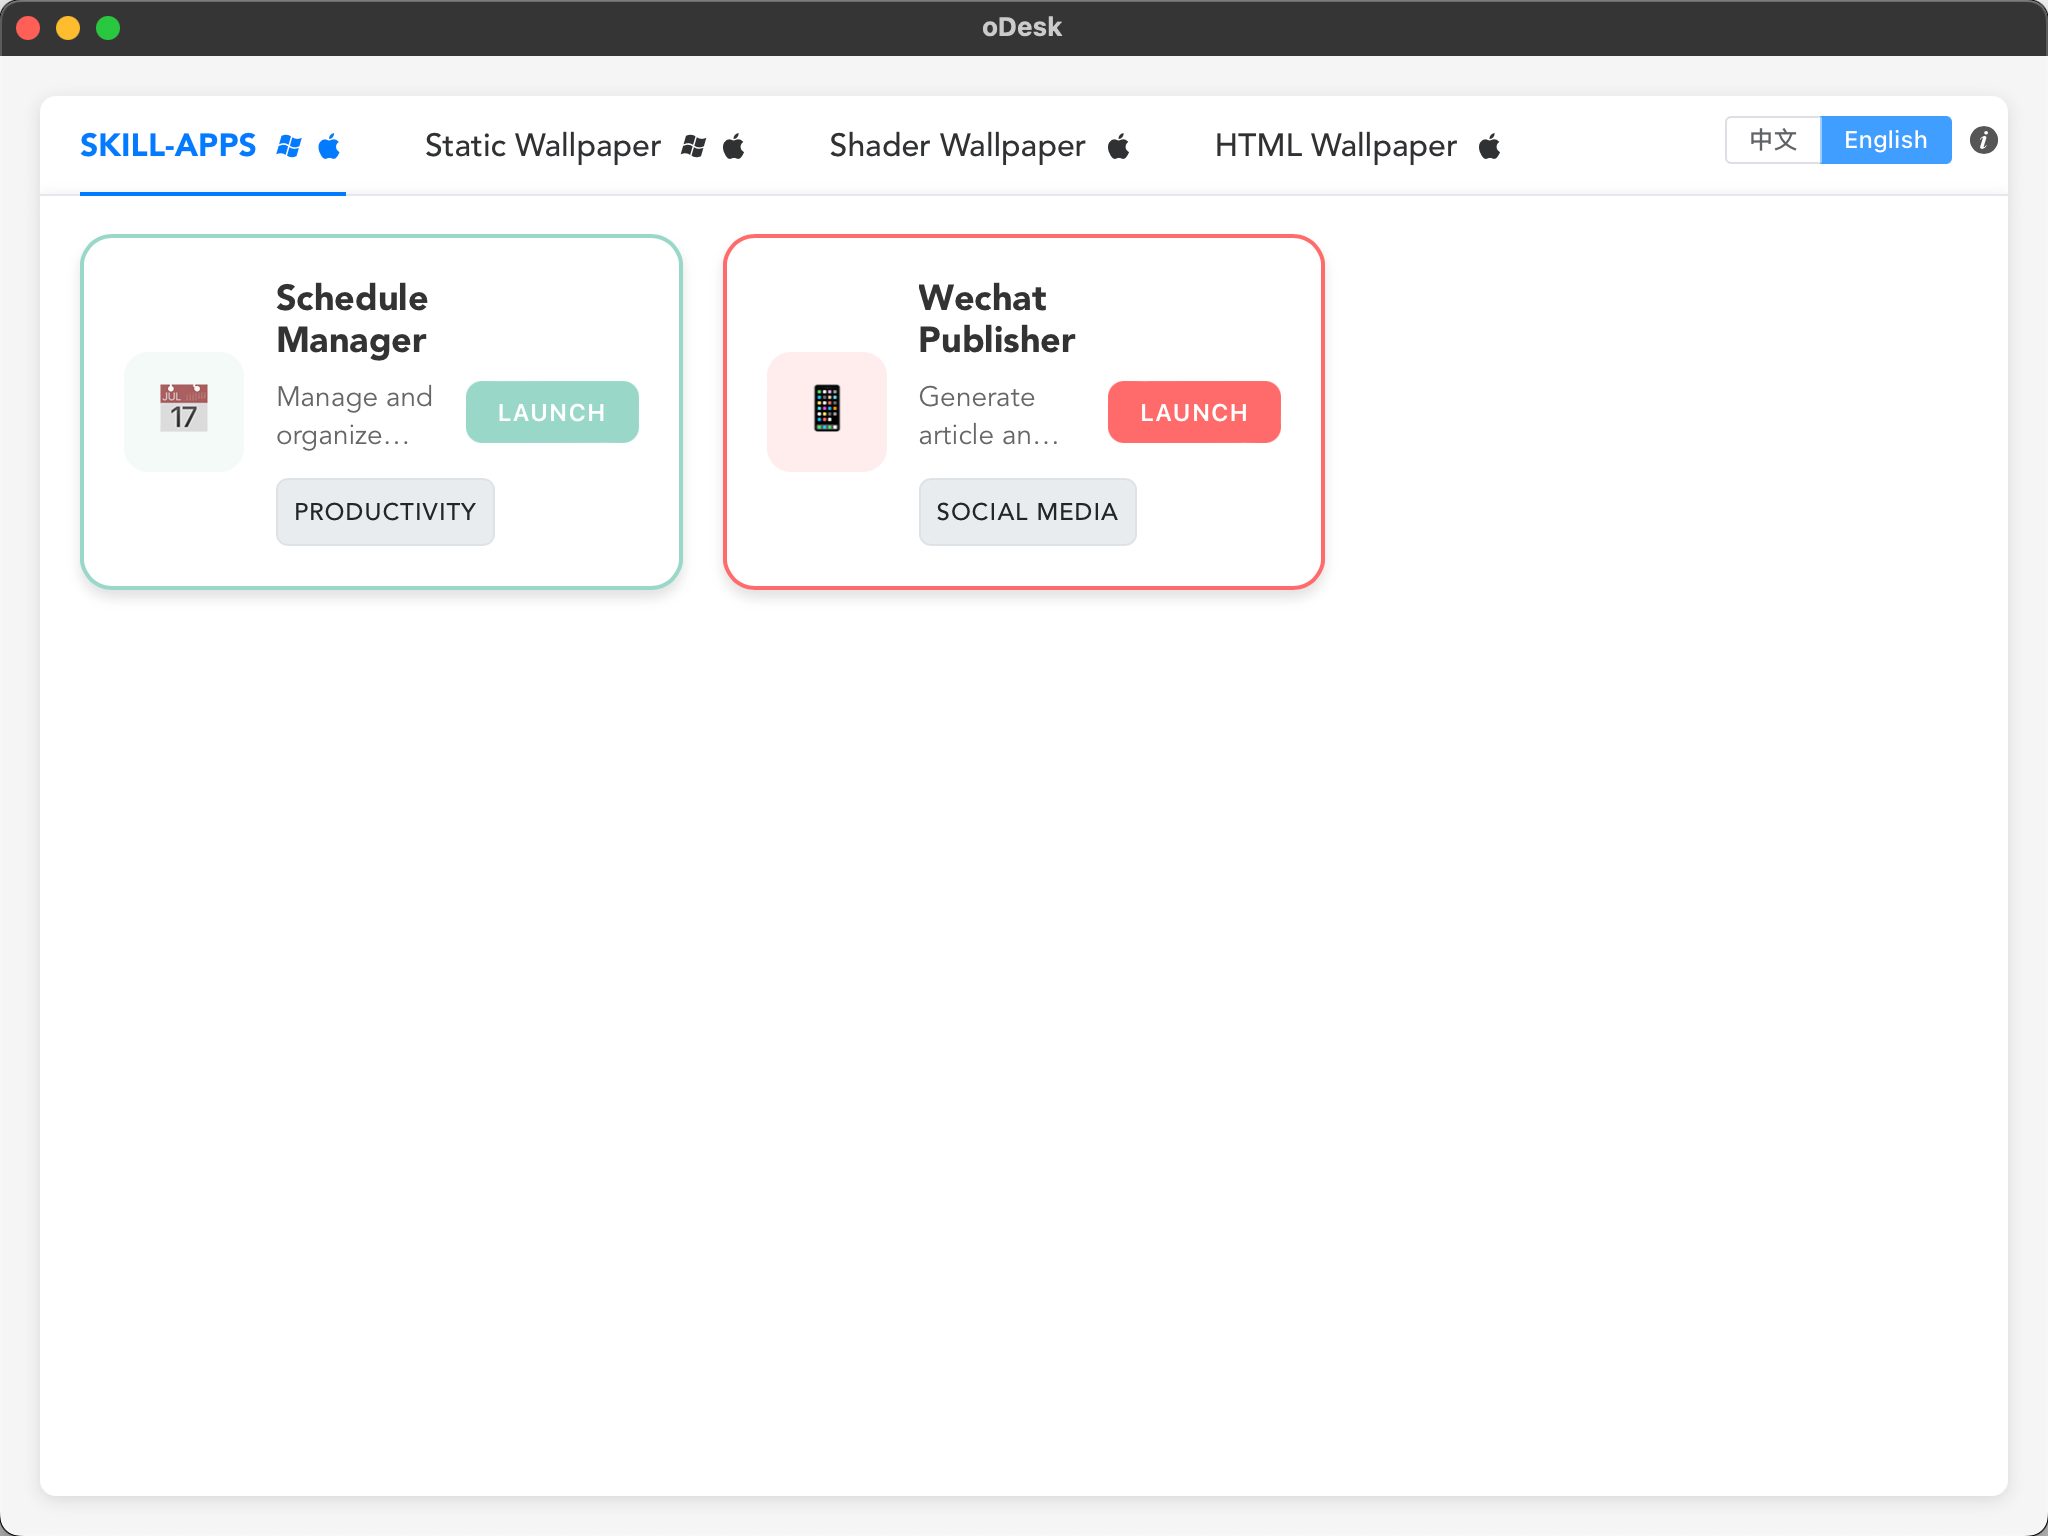
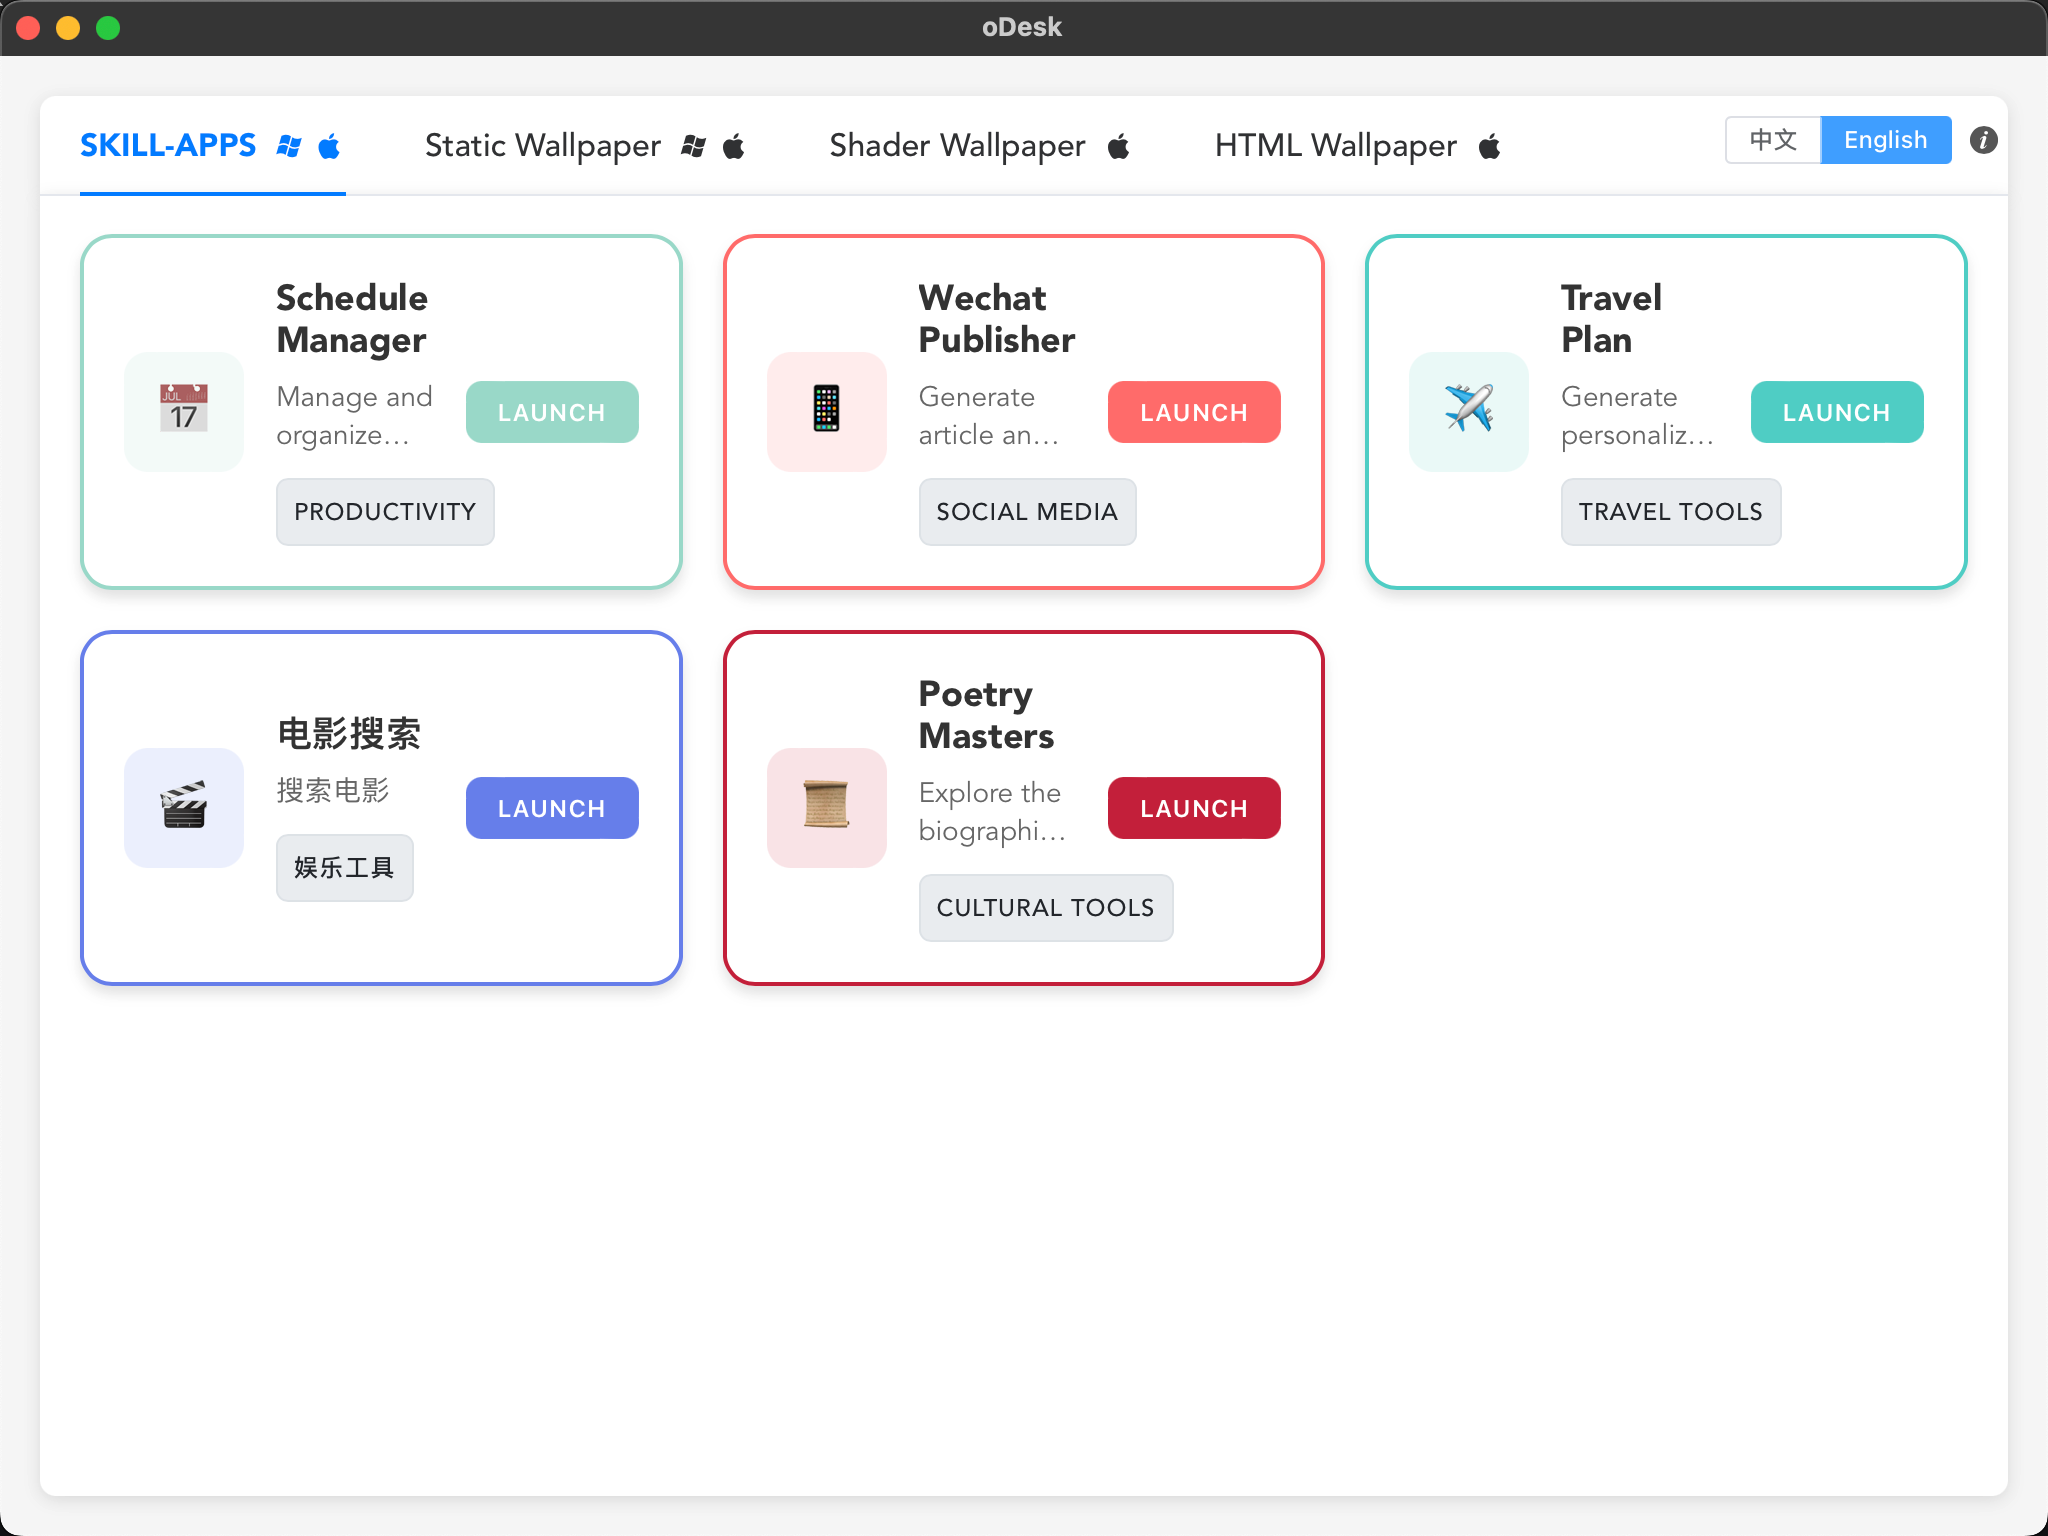
feat: replace music downloader with travel, movie, and poetry apps
Replaced the "Music Download" built-in application with three new skill apps:
"Travel Plan", "Movie Finder", and "Ancien Poetry". Updated both Chinese and
English READMEs to reflect the new feature set and added corresponding preview
images. This expands the platform's AI capabilities to cover travel planning,
film discovery, and traditional cultural exploration.

diff --git a/src/build.ts b/src/build.ts
@@ -2,5 +2,5 @@
 export const BUILD_INFO = {
   version: "0.1.0",
   buildTime: "2026-03-31",
-  buildNumber: "1774966108",
+  buildNumber: "1774968270",
 };

diff --git a/README.md b/README.md
@@ -25,10 +25,22 @@
 - **内置应用**：
   - **排班管理器 (Schedule Manager)**：智能排班表生成工具，支持自定义员工数量、班次设置，可导出Excel文件
   - **微信发布器 (Wechat Publisher)**：微信公众号文章发布工具，支持AI生成文章、多种排版主题、一键发布
-  - **音乐下载器 (Music Download)**：音乐搜索和下载工具，支持队列管理和本地播放
+  - **旅行计划 (Travel Plan)**：个性化旅行计划生成工具，支持多种视觉风格和图片类型
+  - **电影搜索 (Movie Finder)**：电影搜索工具，快速查找感兴趣的电影
+  - **诗词大师 (Ancien Poetry)**：探索诗词大师的生平与经典名句，感受传统文化魅力
 - **工作区管理**：创建和管理开发工作区，支持 opencode 服务执行
 - **技能扩展**：支持通过技能包扩展应用功能，可导入导出技能配置
 - **实时连接**：工作区状态实时监控，支持会话管理和文件操作
+
+<p align="center">
+
+<img src="./preview/skillapps/1.png" width="40%" >
+<img src="./preview/skillapps/2.png" width="40%" >
+<img src="./preview/skillapps/3.png" width="40%" >
+<img src="./preview/skillapps/4.png" width="40%" >
+<img src="./preview/skillapps/5.png" width="40%" >
+
+</p>
 
 ### 2. 静态壁纸
 
@@ -61,7 +73,9 @@
 1. **Skill应用**：在"SKILL-APPS"标签页中，可以访问各种技能应用
    - **排班管理器**：输入员工数量、月份和班次要求，AI自动生成最优排班表，支持导出Excel
    - **微信发布器**：配置微信公众号AppID和AppSecret，输入关键词搜索文章，AI生成内容并一键发布
-   - **音乐下载器**：搜索音乐，管理下载队列，支持本地播放
+   - **旅行计划**：输入目的地、天数等需求，AI生成个性化旅行计划，支持多种视觉风格
+   - **电影搜索**：快速搜索电影信息，查找感兴趣的影视作品
+   - **诗词大师**：探索古今诗词大师的生平事迹与经典名句，感受传统文化魅力
 2. **静态壁纸**：在"静态壁纸"标签页中，可以浏览本地壁纸、下载云端壁纸、设置壁纸轮播
 3. **Shader 壁纸**：在"着色器壁纸"标签页中，可以创建、编辑和预览 GLSL 着色器
 4. **HTML 壁纸**：在"网页壁纸"标签页中，可以将任意网页设为壁纸，支持实时编辑预览

diff --git a/README_EN.md b/README_EN.md
@@ -25,7 +25,9 @@
 - **Built-in Apps**:
   - **Schedule Manager**: Intelligent scheduling tool with customizable employee count and shift settings, exportable to Excel
   - **Wechat Publisher**: WeChat public account article publishing tool with AI content generation, multiple themes, and one-click publishing
-  - **Music Download**: Music search and download tool with queue management and local playback
+  - **Travel Plan**: Personalized travel plan generator with multiple visual styles and image types
+  - **Movie Finder**: Movie search tool for quickly finding interesting films
+  - **Ancien Poetry**: Explore the lives and classic verses of poetry masters, experiencing traditional cultural charm
 - **Workspace Management**: Create and manage development workspaces with opencode service execution
 - **Skill Extensions**: Extend app functionality through skill packs, with import/export configuration support
 - **Real-time Connection**: Real-time workspace status monitoring with session management and file operations
@@ -61,7 +63,9 @@
 1. **Skill Apps**: Access various skill apps in the "SKILL-APPS" tab
    - **Schedule Manager**: Enter employee count, month, and shift requirements for AI to generate optimal schedules, exportable to Excel
    - **Wechat Publisher**: Configure WeChat public account AppID and AppSecret, search articles by keywords, AI generates content for one-click publishing
-   - **Music Download**: Search music, manage download queue, local playback support
+   - **Travel Plan**: Enter destination, days and other requirements for AI to generate personalized travel plans with multiple visual styles
+   - **Movie Finder**: Quickly search movie information and find interesting films
+   - **Ancien Poetry**: Explore the lives and classic verses of ancient and modern poetry masters, experiencing traditional cultural charm
 2. **Static Wallpapers**: Browse local wallpapers, download cloud wallpapers, and set slideshow in the "Static Wallpapers" tab
 3. **Shader Wallpapers**: Create, edit, and preview GLSL shaders in the "Shader Wallpapers" tab
 4. **HTML Wallpapers**: Set any webpage as wallpaper with real-time editing preview in the "Web Wallpapers" tab
